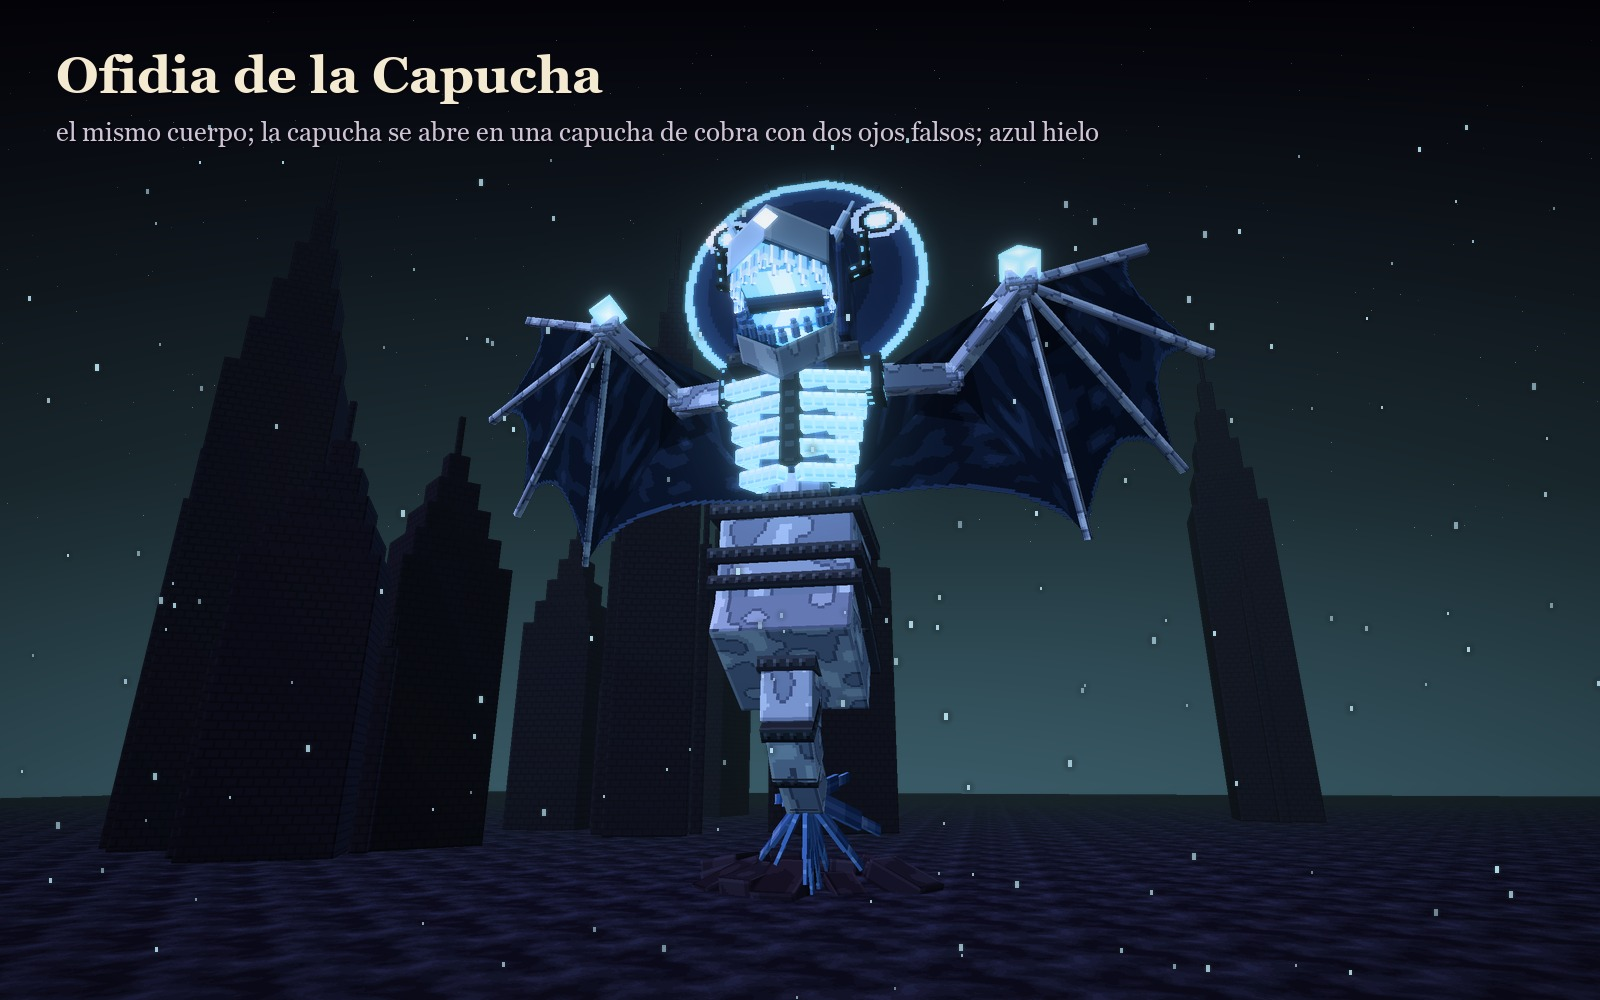
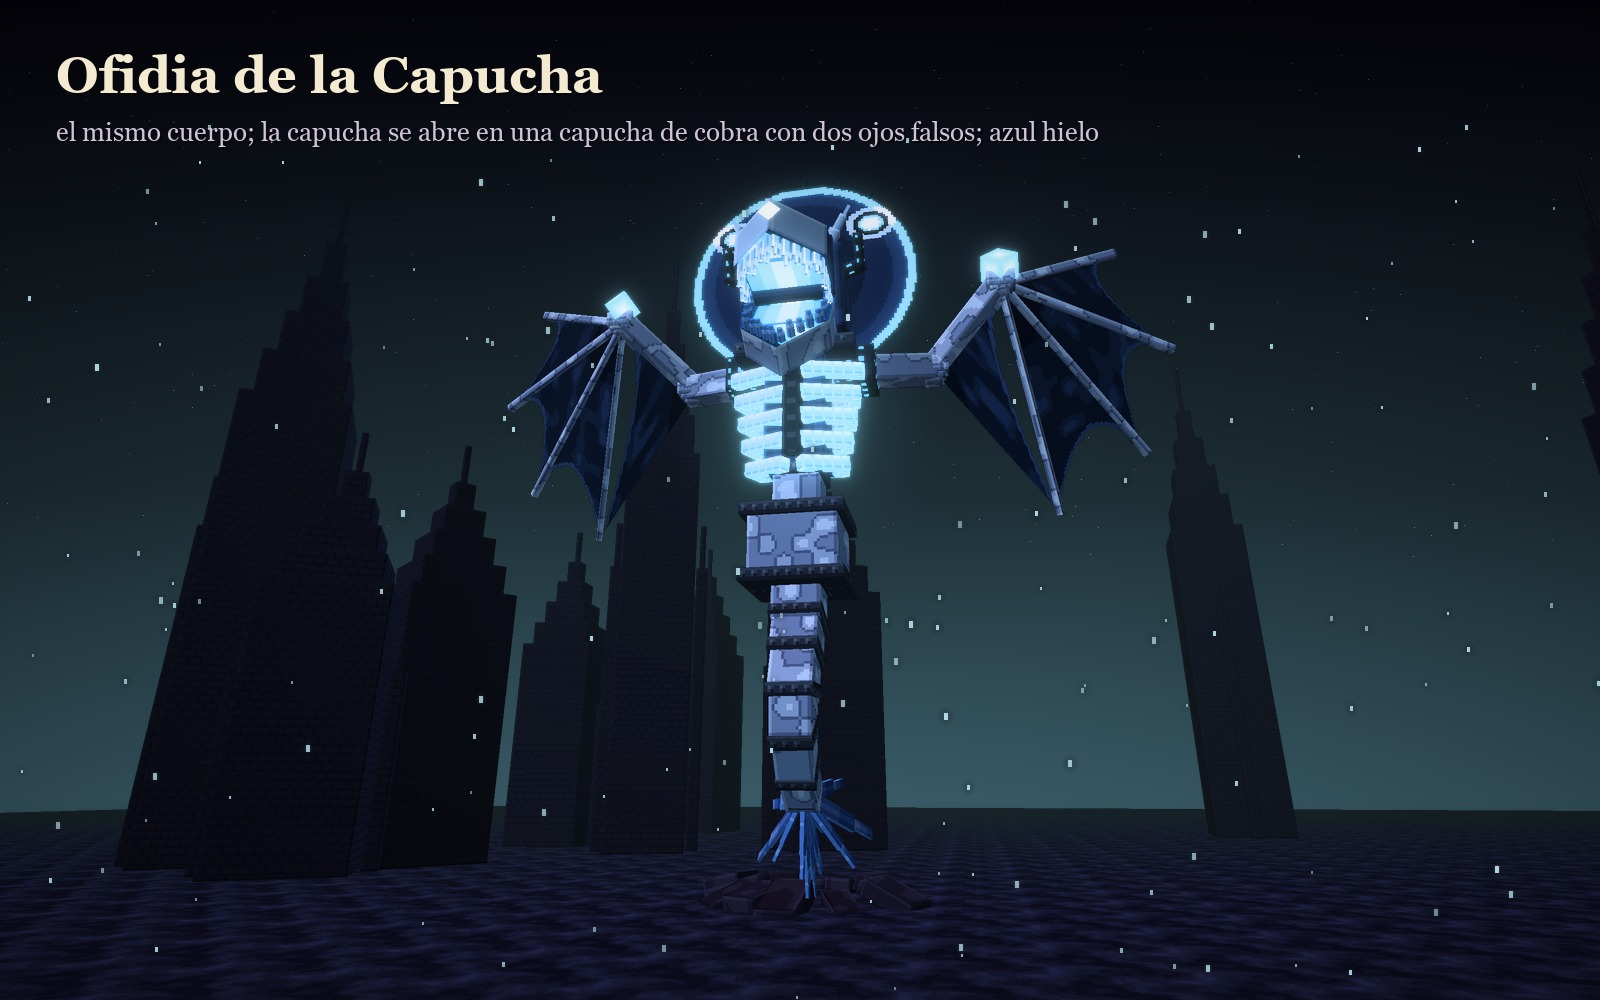
Ofidia sheet: segmented body, taller, longer jaw, no armpit membrane
Splits Ofidia's lower body into the pieces Juan described: small, a
bit big, small again, then the ribs. From the bottom: the red fin, the
tail as thin equal drums with the forward knee, one drum a bit bigger,
a small one equal to the top of the tail (the waist), and the chest of
ribs on top, each piece with its riveted belt.

She is taller and more slender (about 35 blocks with the lures and the
fin), the lower jaw is longer (and the upper one a little), and the
bat wings no longer have membrane at the armpits or down to the flank:
only between the fingers and from the forearm to the last finger.

diff --git a/materiales/generadores/ofidia_modelo.py b/materiales/generadores/ofidia_modelo.py
@@ -13,15 +13,16 @@ bien su portada».
       cinturones granates con remaches, que cuelga del cinturon de la cintura, hace una ese
       suave y acaba en una aleta roja de hojas en abanico;
     - la cintura: un cinturon con remaches;
-    - de abajo arriba (medido en la imagen de Juan): la aleta roja (16 %), la cola fina con la
-      rodilla hacia delante (22 %), las caderas, dos tambores gordos mas anchos que el costillar
-      (18 %), el cinturon, la cintura estrecha (6 %) y, mas arriba, el costillar (17 %), que es
-      solo costillas: cinco pares de barras rosas gruesas que brillan, con el canto blanco, que se
-      abren hacia arriba, con huecos oscuros entre ellas, la columna detras y el esternon delante;
-      encima, sin apenas cuello, la cabeza (18 %);
+    - de abajo arriba, como dijo Juan («pequeno, un poco grande, pequeno de vuelta y luego sigue
+      lo demas, sus costillas»): la aleta roja; la cola, tramos finos con la rodilla hacia
+      delante; un tambor un poco mas grande; otro pequeno, igual que el tramo de arriba de la
+      cola (la cintura); y, encima, el costillar, que es solo costillas: cinco pares de barras
+      rosas gruesas que brillan, con el canto blanco, que se abren hacia arriba, con huecos
+      oscuros entre ellas, la columna detras y el esternon delante; encima, sin apenas cuello,
+      la cabeza. Es alta y esbelta;
     - dos alas de murcielago: el brazo (codo hacia atras, muneca hacia delante con un cubo rosa
       encendido por pulgar) y cuatro dedos largos en abanico, con la membrana azul noche tendida
-      entre ellos y el borde libre en arcos;
+      solo entre ellos y el borde libre en arcos (nada en las axilas);
     - la cabeza: una capucha puntiaguda de azul noche, una visera lila con una gema blanca
       que brilla, dos cuernos lila, una media luna lila, una espina rosa, un gancho negro con
       remaches turquesa y un tallo negro con muescas en la coronilla;
@@ -472,37 +473,43 @@ def _jirones(out, a, b, largo, P, semilla=0, vuelo=(0.0, 0.0, 0.0)):
 # ----------------------------------------------------------------------
 #  La cola: tambores de marmol con su cinturon, enroscada en el suelo y alzandose
 # ----------------------------------------------------------------------
-COLA = [(0.0, 14.1, 0.0), (0.0, 11.9, 0.2), (0.0, 9.7, 0.6), (0.0, 7.7, 1.7), (0.0, 5.8, 1.3), (0.0, 4.5, -0.1), (0.0, 3.7, -1.3)]
+CINTURA = 1.08                    # el grueso de la cintura, igual que el tramo de arriba de la cola
+COLA = [(0.0, 13.6, 0.0), (0.0, 11.4, 0.3), (0.0, 9.2, 1.3), (0.0, 7.2, 1.4), (0.0, 5.6, 0.4), (0.0, 4.6, -0.9)]
 
 
 def cola(out, V, P):
-    """La cola: cuelga del cinturon. Arriba, las caderas: dos tambores gordos, mas anchos que el
-    costillar; luego se estrecha de golpe, hace la rodilla hacia delante y baja fina hasta la
-    aleta roja. Cada tambor lleva su cinturon con remaches."""
-    pts = sm._por_longitud(COLA, 1.9)
+    """La cola: tramos finos de marmol, cada uno con su cinturon, que bajan con la rodilla hacia
+    delante hasta la aleta roja. El de arriba es igual que la cintura."""
+    pts = sm._por_longitud(COLA, 1.6)
     marcos = sm._marcos(pts, (0, 0, 1))
-    acum = 0.0
+    n = len(marcos)
     for i, M in enumerate(marcos):
+        t = i / max(n - 1, 1)
+        r = CINTURA - (CINTURA - 0.72) * t
         L = float(np.linalg.norm(pts[i + 1] - pts[i]))
-        m = acum + L / 2
-        if m < 5.0:
-            r = 2.65
-        elif m < 6.6:
-            r = 2.65 + (1.0 - 2.65) * (m - 5.0) / 1.6
-        else:
-            r = max(0.62, 1.0 - 0.06 * (m - 6.6))
-        acum += L
         cubo(out, M, -r, -r, -0.15, 2 * r, 2 * r, L + 0.3, P['marmol'], semilla=i)
-        rb = r * 1.14
+        rb = r * 1.16
         cubo(out, M @ vr.T(0, 0, -0.28), -rb, -rb, 0, 2 * rb, 2 * rb, 0.56, P['cinto'], semilla=i)
         if V['clave'] == 'C' and i % 2 == 1:                                    # cadenas que cruzan el tambor
             for s in (1, -1):
-                cadena(out, punto(M, (-s * r * 1.08, r * 1.08, 0.3)), punto(M, (s * r * 1.08, r * 1.08, L - 0.3)), 0.8,
+                cadena(out, punto(M, (-s * r * 1.08, r * 1.08, 0.3)), punto(M, (s * r * 1.08, r * 1.08, L - 0.3)), 0.7,
                        P['oxido'], semilla=i)
     fin = pts[-1]
     t = pts[-1] - pts[-2]
     aleta(out, fin, t / np.linalg.norm(t), P)
     return pts
+
+
+def tambor(out, y0, y1, r, P, semilla=0, cadenas=False):
+    """Un tambor recto de marmol, de y0 a y1, con su cinturon de remaches en cada punta."""
+    cubo(out, vr.T(0, y0, 0), -r, 0, -r, 2 * r, y1 - y0, 2 * r, P['marmol'], semilla=semilla)
+    rb = r * 1.16
+    for y in (y0, y1):
+        cubo(out, vr.T(0, y - 0.28, 0), -rb, 0, -rb, 2 * rb, 0.56, 2 * rb, P['cinto'], semilla=semilla + 1)
+    if cadenas:
+        for sx in (1, -1):
+            cadena(out, np.array((-sx * r * 1.08, y0 + 0.4, r * 1.08)), np.array((sx * r * 1.08, y1 - 0.4, r * 1.08)), 0.7,
+                   P['oxido'], semilla=semilla)
 
 
 def aleta(out, p, t, P):
@@ -533,14 +540,14 @@ def ofidia(variante='O'):
     # de abajo arriba: la cola (con las caderas anchas arriba), el cinturon, la cintura estrecha
     # (solo la columna) y, mas arriba, el costillar de solo costillas
     cola(out, V, P)
-    cubo(out, vr.T(0, 14.3, 0.0), -2.5, -0.35, -2.5, 5.0, 0.7, 5.0, P['cinto'], semilla=1)        # el cinturon
-    cubo(out, vr.T(0, 14.6, -0.1), -1.15, 0, -1.05, 2.3, 1.9, 2.1, P['marmol'], semilla=2)        # la cintura, estrecha
-    cubo(out, vr.T(0, 15.2, -0.1), -1.35, 0, -1.25, 2.7, 0.42, 2.5, P['cinto'], semilla=3)        # su anillo
-    cubo(out, vr.T(0, 14.6, -1.25), -0.45, 0, -0.3, 0.9, 1.9, 0.6, P['columna'], semilla=2)        # la columna, detras
+    # de abajo arriba: la cola (pequeno), un tambor un poco mas grande, otro pequeno igual que el
+    # de arriba de la cola (la cintura) y, encima, el costillar
+    tambor(out, 13.6, 16.6, 2.0, P, semilla=1, cadenas=(k == 'C'))                              # un poco grande
+    tambor(out, 16.6, 18.8, CINTURA, P, semilla=3)                                              # pequeno de vuelta
 
     # el costillar: la columna detras, el esternon delante y cinco pares de costillas gruesas que
     # se abren hacia arriba (estrecho abajo, ancho arriba), con huecos oscuros entre ellas
-    Mt = vr.T(0, 18.9, 0.0)
+    Mt = vr.T(0, 21.75, 0.0) @ np.diag([1.0, 1.12, 1.0, 1.0])
     cubo(out, Mt, -0.55, -2.6, -1.85, 1.1, 5.3, 0.95, P['columna'], semilla=4)                    # la columna
     cubo(out, Mt, -0.45, -2.3, 1.55, 0.9, 4.8, 0.55, P['columna'], semilla=5)                     # el esternon
     cubo(out, Mt, -1.45, -2.4, -1.2, 2.9, 4.8, 2.6, P['capucha'], semilla=6)                      # lo de dentro, oscuro
@@ -562,11 +569,11 @@ def ofidia(variante='O'):
 
     # las dos alas, abiertas a los lados, desde los hombros
     for s in (1, -1):
-        ala(out, s, V, P, dy=5.2)
+        ala(out, s, V, P, dy=8.4)
 
     # el cuello, corto, y la cabeza justo encima del costillar
-    viga(out, np.array((0, 21.5, 0.0)), np.array((0, 22.9, 0.9)), 1.8, 1.8, P['marmol'], extra=0.3, semilla=40)
-    Mh = em.marco(np.array((0.0, 24.2, 2.0)), (0.0, -0.2, 1.0)) @ np.diag([1.05, 1.05, 1.05, 1.0])
+    viga(out, np.array((0, 24.7, 0.0)), np.array((0, 26.2, 0.9)), 1.8, 1.8, P['marmol'], extra=0.3, semilla=40)
+    Mh = em.marco(np.array((0.0, 27.5, 2.0)), (0.0, -0.2, 1.0)) @ np.diag([1.05, 1.05, 1.05, 1.0])
     cabeza(out, Mh, V, P)
     if k == 'O':
         _corona_original(out, Mh, P)
@@ -588,8 +595,8 @@ def _pano(out, raiz, a, b, pintor, semilla=0):
 def ala(out, s, V, P, dy=0.0):
     """Un ala de murcielago: el brazo (hombro, codo hacia atras y muneca hacia delante, con el
     cubo encendido por pulgar) y cuatro dedos largos que se abren en abanico desde la muneca; la
-    membrana va tendida entre los dedos, con el borde libre en arcos, y del ultimo dedo baja
-    hasta el costado."""
+    membrana va tendida solo entre los dedos y del antebrazo al ultimo dedo, con el borde libre
+    en arcos; en las axilas no hay membrana."""
     k = V['clave']
     sube = np.array((0.0, dy, 0.0))
     hombro = np.array((s * 2.7, 16.0, -0.8)) + sube
@@ -597,7 +604,6 @@ def ala(out, s, V, P, dy=0.0):
     muneca = np.array((s * 10.0, 20.4, -1.2)) + sube
     dedos = [np.array((s * 16.0, 23.0, -3.6)) + sube, np.array((s * 18.6, 18.0, -5.2)) + sube,
              np.array((s * 16.8, 12.6, -5.8)) + sube, np.array((s * 12.2, 9.4, -5.0)) + sube]
-    costado = np.array((s * 1.4, 15.6, -1.0))
     cubo(out, vr.T(*hombro), -1.0, -0.9, -1.1, 2.0, 1.8, 2.2, P['gancho'], semilla=20)            # el hombro, con remaches
     viga(out, hombro, codo, 1.35, 1.3, P['marmol'], extra=0.3, semilla=21)
     viga(out, codo, muneca, 1.1, 1.05, P['marmol'], extra=0.28, semilla=22)
@@ -606,13 +612,11 @@ def ala(out, s, V, P, dy=0.0):
     for j, t in enumerate(dedos):                                                                # los dedos
         g = 0.44 - 0.04 * j
         viga(out, muneca, t, g, g, P['marmol'], extra=0.1, semilla=25 + j)
-    # la membrana: entre los dedos, con el borde en arcos; del ultimo dedo al costado; y por dentro
+    # la membrana: solo entre los dedos (con el borde en arcos) y del antebrazo al ultimo dedo;
+    # nada en las axilas ni hasta el costado
     for j in range(3):
         _pano(out, muneca, dedos[j], dedos[j + 1], P['membrana'], semilla=30 + j + 10 * (s > 0))
-    _pano(out, codo, dedos[3], costado, P['membrana'], semilla=33 + 10 * (s > 0))
-    _pano(out, codo, muneca, dedos[3], P['membrana_lisa'], semilla=34)
-    _pano(out, hombro, codo, costado, P['membrana_lisa'], semilla=35)
-    _pano(out, codo, hombro, muneca, P['membrana_lisa'], semilla=36)
+    _pano(out, codo, muneca, dedos[3], P['membrana'], semilla=34 + 10 * (s > 0))
     # el pulgar: el cubo encendido de la muneca (en los Faroles, un farol colgando)
     if k == 'B':
         _cubo_diamante(out, muneca + np.array((0, 0.6, 0.3)), 0.95, P['cebo'], semilla=37)
@@ -705,7 +709,7 @@ def cabeza(out, Mh, V, P):
     # rosa por dentro, con el borde de marmol y los dientes rojos en escalon; abierta, de frente
     # es el escudo rosa que acaba en punta debajo de la visera.
     Mu = _mandibula_arriba(Mh)
-    W, R, L = 4.1, 2.6, 4.5
+    W, R, L = 4.1, 2.9, 5.0
     prisma5(out, Mu, W, 0.0, 1.6, R, L, {'arriba': P['hueso'], 'proa': P['hueso'], 'lados': P['capucha'], 'atras': P['capucha'],
                                          'abajo': P['boca']}, semilla=7)
     n = _dir(Mu, (0.0, 0.0, 1.0))
@@ -717,9 +721,9 @@ def cabeza(out, Mh, V, P):
         colmillo(out, M, 0.44, 0.95 + 0.35 * (j % 2), 0.16, P['colmillo'], semilla=12 + j % 9)
     # la de abajo
     Ml = Mh @ vr.T(0, -0.3, -0.2) @ vr.Rx(40 * D)
-    prisma5(out, Ml, 3.9, -1.3, 0.0, 2.3, 4.3, {'arriba': P['boca'], 'abajo': P['marmol'], 'lados': P['marmol'],
+    prisma5(out, Ml, 3.9, -1.3, 0.0, 3.0, 5.6, {'arriba': P['boca'], 'abajo': P['marmol'], 'lados': P['marmol'],
                                                  'proa': P['marmol'], 'atras': P['capucha']}, semilla=33)
-    for j, (x, z, ang) in enumerate(borde5(3.9 - 0.4, 2.3, 4.3 - 0.35, 0.52)):                     # los dientes rojos, en escalon
+    for j, (x, z, ang) in enumerate(borde5(3.9 - 0.4, 3.0, 5.6 - 0.35, 0.52)):                     # los dientes rojos, en escalon
         M = Ml @ vr.T(x, 0, z) @ vr.Ry(ang)
         alto = 0.42 + 0.14 * (j % 2)
         cubo(out, M, -0.12, 0, -0.13, 0.24, alto, 0.26, P['diente_bajo'], semilla=40 + j % 7)

diff --git a/materiales/generadores/ofidia_escenas.py b/materiales/generadores/ofidia_escenas.py
@@ -171,7 +171,7 @@ def guardar(img, nombre):
 
 NOMBRE = {'O': 'Ofidia, la original (estudio)', 'A': 'Ofidia de la Capucha', 'B': 'Ofidia de los Faroles', 'C': 'Ofidia Encadenada'}
 SUB_HEROE = {
-    'O': 'flota: cola fina hasta la aleta, caderas, cintura estrecha, costillar de solo costillas y alas de murcielago',
+    'O': 'flota: cola fina, una pieza un poco grande, la cintura pequena, el costillar de solo costillas y alas de murcielago',
     'A': 'el mismo cuerpo; la capucha se abre en una capucha de cobra con dos ojos falsos; azul hielo',
     'B': 'el mismo cuerpo; los cebos son faroles con almas: en la cabeza, a los lados y en las alas',
     'C': 'el mismo cuerpo, encadenado: grilletes en las alas, barrotes en el pecho, bozal roto y cuernos',
@@ -182,8 +182,8 @@ SUB_CABEZA = {
     'B': 'de cada varilla cuelga un farol con un alma dentro',
     'C': 'el bozal se le ha roto por delante y la mandibula ha quedado libre',
 }
-CAMARA_HEROE = ((7.0, 4.5, 33.0), (0.0, 15.6, 0.0), 62)
-CAMARA_CABEZA = ((-8.0, 15.0, 22.0), (0.0, 21.6, 2.0), 56)
+CAMARA_HEROE = ((7.0, 5.0, 36.0), (0.0, 17.6, 0.0), 62)
+CAMARA_CABEZA = ((-8.0, 18.0, 23.0), (0.0, 24.8, 2.0), 58)
 
 
 def escena(cual, camara, nombre, sub, n_motas):
@@ -217,7 +217,7 @@ def cuatro():
              amb=(0.22, 0.21, 0.26), niebla=(0.06, 0.05, 0.09), niebla_d=(180, 330),
              cielo=((0.01, 0.012, 0.03), (0.05, 0.05, 0.1), (0.16, 0.13, 0.22)), motas=(230, 230, 255))
     niebla = qe.Niebla(S['niebla'], *S['niebla_d'])
-    cam = vr.Camara((0.0, 14.0, 215.0), (0.0, 14.0, 0.0), 22, W * SS, H * SS)
+    cam = vr.Camara((0.0, 16.0, 225.0), (0.0, 16.5, 0.0), 22, W * SS, H * SS)
     suelo(lz, cam, niebla, S, ext=280, paso=32, cerca=40)
     for cual, x in (('O', -60.0), ('A', -20.0), ('B', 20.0), ('C', 60.0)):
         qs, info = om.ofidia(cual)
@@ -268,9 +268,9 @@ def materiales():
     guardar(img, 'materiales')
 
 
-CAMARA_CARTEL = ((-9.0, 12.5, 25.0), (0.0, 21.2, 2.0), 46)
-CAMARA_FRENTE = ((0.0, 16.0, 30.0), (0.0, 19.5, 2.0), 52)
-CAMARA_LADO = ((-54.0, 15.5, 2.0), (0.0, 15.5, 1.0), 44)
+CAMARA_CARTEL = ((-9.0, 15.5, 25.0), (0.0, 24.4, 2.0), 46)
+CAMARA_FRENTE = ((0.0, 19.0, 31.0), (0.0, 22.6, 2.0), 52)
+CAMARA_LADO = ((-60.0, 17.5, 2.0), (0.0, 17.5, 1.0), 44)
 
 
 def cartel(cual):

diff --git a/materiales/fichas/ofidia/LEEME.md b/materiales/fichas/ofidia/LEEME.md
@@ -5,7 +5,7 @@ Eufonia Studio. Su cartel oficial está en
 https://x.com/dedsafio/status/2109039127597560179.
 
 Juan pidió el 12-10-2026 recrearla igual y hacerle variantes propias, «para no copiarla
-como tal». Hicieron falta siete versiones:
+como tal». Hicieron falta ocho versiones:
 
 1. La primera no se parecía: «fíjate bien cómo es Ofidia… date tu tiempo, investiga
    más».
@@ -23,10 +23,11 @@ como tal». Hicieron falta siete versiones:
 6. La sexta corrigió la anatomía con esa imagen: flota erguida y la cola cuelga hasta una
    aleta roja; y las dos mandíbulas son medio rectángulo y medio triángulo, como en la
    portada y en los primeros planos del directo.
-7. Esta séptima ajusta las proporciones: «mejora la proporción del cuerpo, que debería ser
+7. La séptima ajustó las proporciones: «mejora la proporción del cuerpo, que debería ser
    primero pequeño y luego subir un poco más; en el pecho, solo mostrando sus costillas».
-   Las proporciones se midieron en la imagen de Juan. Se comprobó de frente, de tres cuartos
-   y de lado.
+8. Esta octava divide el cuerpo por tramos («es como pequeño, un poco grande, pequeño de
+   vuelta y luego sigue lo demás, sus costillas»). La hace más alta y alarga la mandíbula.
+   Las alas ya no tienen membrana en las axilas.
 
 **La original es solo para estudiarla; no va al mod.** Las candidatas son las tres
 variantes. A Juan le gustó la Encadenada.
@@ -46,13 +47,15 @@ Las fuentes son cinco:
 En la forma de monstruo se ve:
 
 - **Flota erguida**, como una sirena; no se apoya en el suelo.
-- **Las proporciones**, de abajo arriba, medidas en la imagen de Juan sobre el alto total:
-  - la aleta roja, 16 %;
-  - la cola fina, con la rodilla hacia delante, 22 %;
-  - las caderas, 18 %: dos tambores gordos de mármol con su cinturón, la parte más ancha;
-  - el cinturón y la cintura estrecha, 10 %;
-  - el pecho, más arriba, 17 %;
-  - la cabeza, casi sin cuello, 18 %.
+- **El cuerpo va por tramos**, de abajo arriba, cada uno con su cinturón de remaches:
+  - la aleta roja;
+  - la cola: tramos finos, con la rodilla hacia delante (pequeño);
+  - un tambor un poco más grande;
+  - otro pequeño, igual que el tramo de arriba de la cola (la cintura);
+  - el pecho, encima;
+  - la cabeza, casi sin cuello.
+
+  Es alta y esbelta: unos 35 bloques con los cebos y la aleta.
 - **El pecho es solo costillas**: cinco pares de costillas rosas gruesas que brillan, con
   el canto blanco y huecos oscuros entre ellas. Se abren hacia arriba (estrecho abajo,
   ancho arriba), con la columna detrás y el esternón oscuro delante.
@@ -61,7 +64,7 @@ En la forma de monstruo se ve:
   - un cubo rosa encendido en la muñeca, que hace de pulgar;
   - cuatro dedos largos que salen de la muñeca en abanico;
   - la membrana azul noche tendida entre los dedos, con el borde en arcos;
-  - del último dedo, la membrana baja hasta el costado.
+  - en las axilas no hay membrana.
 - **La cabeza** tiene:
   - una capucha puntiaguda de azul noche;
   - una visera lila con una gema blanca;
